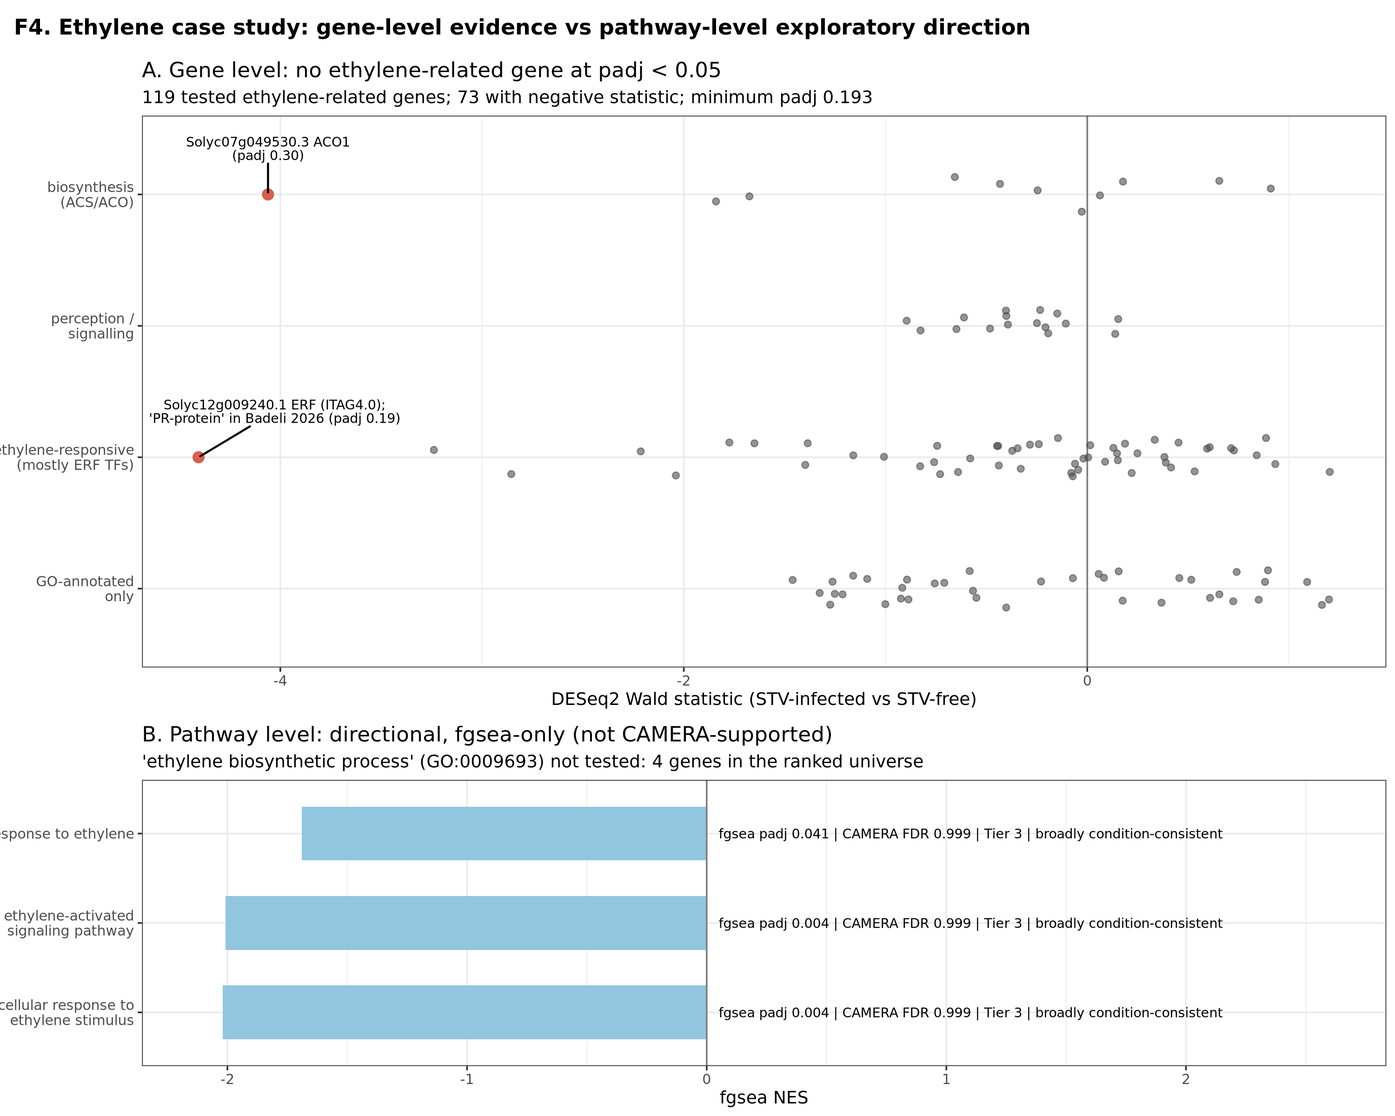
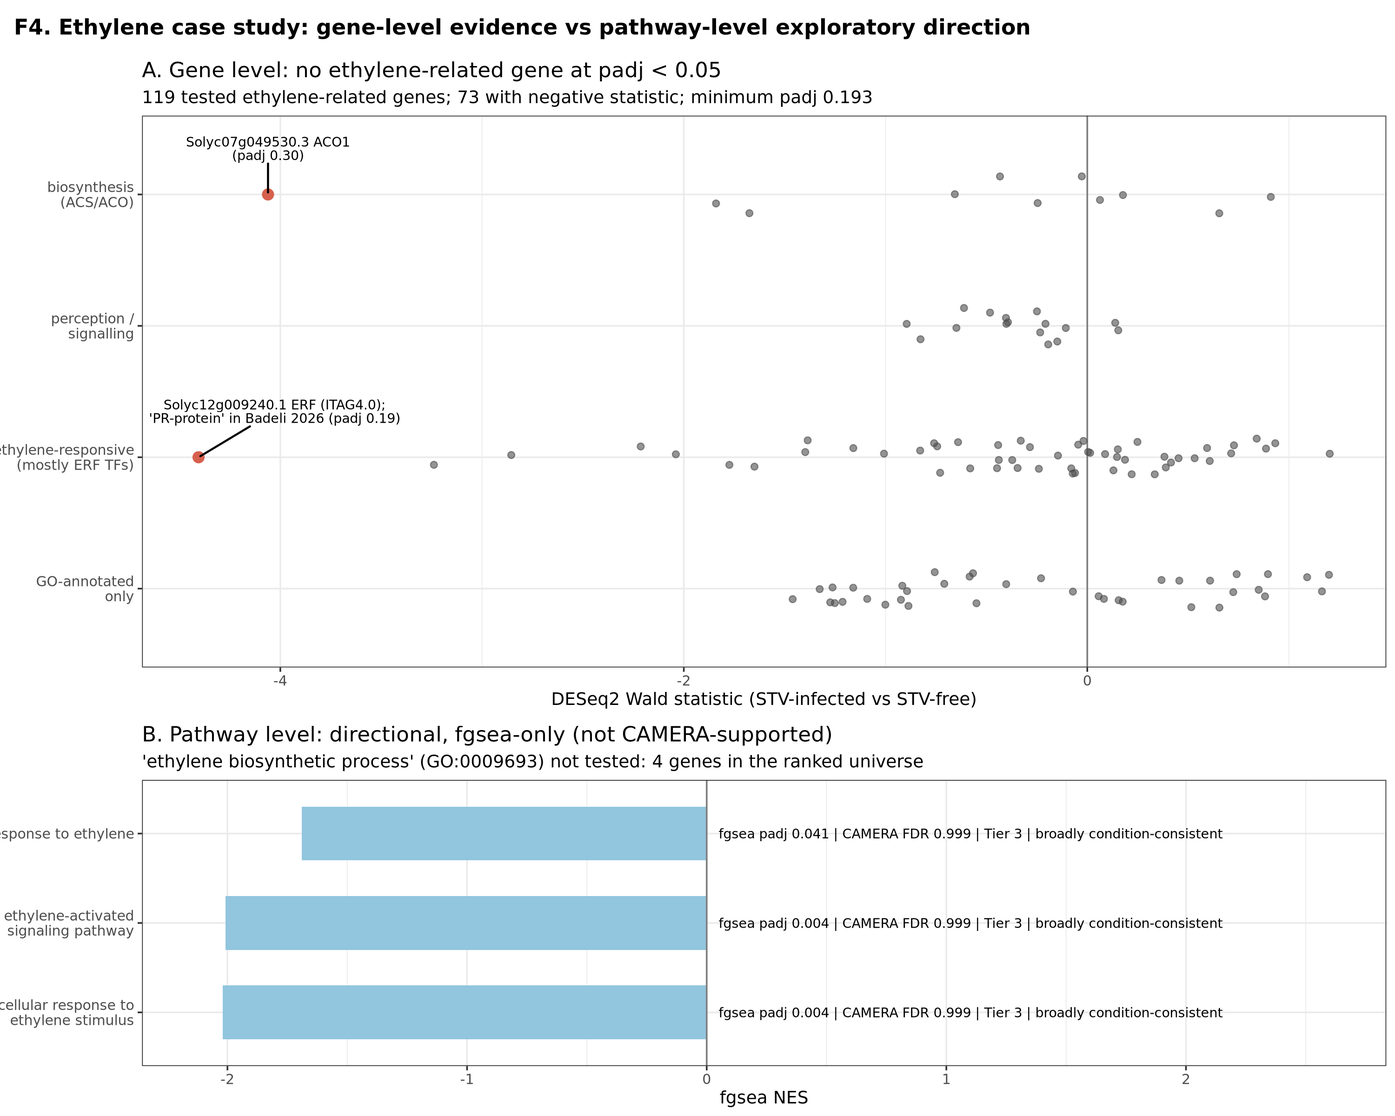
Finalize Phase 7 robustness decisions and F4 reproducibility
Owner approvals recorded as final: D-049 robustness descriptors and cut points (descriptive, post-hoc project conventions, not inferential); ATP synthase UNSUPPORTED - technically sensitive; ER EXPLORATORY - strongly sample-sensitive. F4 made deterministic with the project seed 20261025 (position_jitter and ggrepel; D-050); two regenerations from identical inputs gave the same SHA-256 (4a89c02baaa18707651e781555ae36b5fa73fb8644e9360092d1c66d00bb93f3). No data, statistics, labels, axes or dimensions changed; F1-F3 identical. No primary analysis re-run; Phase 6 outputs 76/76, quant.sf 6/6, protected RDS and voom unchanged. Phase 7 closed.

diff --git a/docs/decisions.md b/docs/decisions.md
@@ -48,11 +48,12 @@ Statuses: **Proposed** / **Approved** / **Rejected**. Only the researcher change
[1 lines of base64/hex data omitted]
 | D-043 | 2026-10-26 | **Post-hoc additions after the Phase 6B runs (labelled, no class changed):** (1) `scripts/R/17_prior_study_locus_lookup.R`, a descriptive lookup of the loci named by Fukuhara et al. 2020 / Badeli et al. 2026 in the primary results (locus-prefix match, no threshold); (2) `scripts/R/18_functional_ch00_posthoc_identity_diagnostic.R`, a broader ch00 exclusion (identity ≥ 98 %, coverage ≥ 50 %) motivated by the `-max_hsps 1` coverage limitation found in the BLAST output. Pre-specified rules and classes stay primary | **Implemented** | (1) Task 11 needs the prior studies' genes in our results without building a gene list. (2) It checks whether a known limitation of the pre-specified class could change the ch00 STOP assessment; it does not (maximum 15.8 % ch00-sensitive) | `docs/functional_robustness_plan.md` §11.3; `docs/ch00_functional_investigation.md` §4; `docs/biological_comparison_prior_studies.md` |
 | D-044 | 2026-10-26 | **Organelle-aware re-quantification: assessment only (Phase 6B closure).** Decision criteria A / B / C / STOP frozen before the assessment (`organelle_requantification_assessment.md` §1; snapshot + SHA-256 in `results/organelle_assessment/prespecification/`). Post-hoc, descriptive work: multi-HSP BLAST (`scripts/bash/organelle_multihsp_blast.sh`), scope diagnostic (`scripts/R/19_organelle_scope_diagnostic.R`), GenBank provenance (`scripts/bash/ch00_ncbi_provenance.sh`). Finding: SL4.0ch00, a Salmon decoy that also carries the ch00 transcripts, contains the **complete** plastome and mitogenome at ≥ 98 % identity. Under the corrected rule, 334 ch00 genes are near-identical to organelle sequence. Maximum ch00 dependence is 15.8 % of a collection. **Agent recommendation: Option A, no new quantification.** Phase 6B wording "no organelle genome in the index" corrected by notes (original text kept). No quantification, tximport, DESeq2, fgsea or CAMERA run | **Approved 2026-10-26 (owner): Option A, no new organelle-aware Salmon re-quantification.** Owner decisions on the follow-ups: (a) the descriptive label "organelle-identical feature class" may be used when technically appropriate, but it must not imply a proven biological or genomic origin (sequence identity ≠ genomic origin); (b) the gene-exclusion fgsea with the corrected class is **not** run: the existing sensitivity analyses suffice for the ATP-synthase caveat, and another post-hoc exclusion is not justified. (Original status: Proposed; owner decision pending.) | The frozen rule selects A because organelle sequence is already represented in the index. No official source requires separate organelle records | `docs/organelle_requantification_assessment.md`; `docs/phase6b_decision_audit.md`; Salmon docs; Srivastava et al. 2020; nf-core/rnaseq 3.27.0 usage |
-| D-045 | 2026-10-26 | **Phase 7 evidence integration and classification rules.** Integrate frozen L1 – L4 evidence per theme (ten Phase 6B themes; no new theme). Classes ROBUST / SUPPORTED WITH CAUTION / EXPLORATORY / UNSUPPORTED. Phase 7 can only keep or lower the Phase 6B class. UNSUPPORTED if U1 (≥ 50 % of sets ch00-sensitive in both exclusion runs), U2 (≥ 50 % of sets dependent on the same sample in LOO **and** < 50 % broadly replicate-consistent) or U3 (≥ 50 % Tier 4). U2 was first coded with LOO alone (kept as `rule_U2_v1_loo_only`) and revised before interpretation so that no single diagnostic is decisive. Result: UNSUPPORTED ribosome/translation, ER, ATP synthase; EXPLORATORY the other seven (defence and cell wall with a LOO boundary caveat; under the first U2 version they would be UNSUPPORTED) | **Implemented (v2; commit `d29a849`). REVISED by the owner, 2026-10-26.** Owner decision: neither U2 v1 nor U2 v2 is a formal inferential rule that turns a theme from EXPLORATORY into UNSUPPORTED; both stay in the project history (matrix flags and superseded classes). Revised framework: DESeq2 = primary gene-level inference; fgsea = exploratory functional discovery; CAMERA = correlation-aware functional inference; replicate consistency, LOO, Cook's and ch00 diagnostics = robustness characterization, reported as a separate descriptive descriptor (D-049), not as significance tests. UNSUPPORTED only by explicit review (pattern lacks support, is contradicted by stronger evidence, or arises primarily from a technical feature class). Result: 9 EXPLORATORY, 1 UNSUPPORTED (ATP synthase: carried primarily by the organelle-identical feature class); ribosome/translation and ER EXPLORATORY, strongly sample-sensitive | Original: no test or threshold for significance is changed; classes follow existing diagnostics; revision disclosed. Revision: no external basis for a 50 % LOO share as an inferential boundary (no pathway-level LOO method paper, Phase 6B); robustness diagnostics are not significance tests; CAMERA is the correlation-aware check (Wu & Smyth 2012; limma `?camera`; GSEA User Guide) | `docs/biological_integration.md` §2 (history §2.4, explicit reviews §2.3); `docs/methods_references.md` §47; `scripts/R/20_biological_integration.R` |
+| D-045 | 2026-10-26 | **Phase 7 evidence integration and classification rules.** Integrate frozen L1 – L4 evidence per theme (ten Phase 6B themes; no new theme). Classes ROBUST / SUPPORTED WITH CAUTION / EXPLORATORY / UNSUPPORTED. Phase 7 can only keep or lower the Phase 6B class. UNSUPPORTED if U1 (≥ 50 % of sets ch00-sensitive in both exclusion runs), U2 (≥ 50 % of sets dependent on the same sample in LOO **and** < 50 % broadly replicate-consistent) or U3 (≥ 50 % Tier 4). U2 was first coded with LOO alone (kept as `rule_U2_v1_loo_only`) and revised before interpretation so that no single diagnostic is decisive. Result: UNSUPPORTED ribosome/translation, ER, ATP synthase; EXPLORATORY the other seven (defence and cell wall with a LOO boundary caveat; under the first U2 version they would be UNSUPPORTED) | **Implemented (v2; commit `d29a849`). REVISED by the owner, 2026-10-26.** Owner decision: neither U2 v1 nor U2 v2 is a formal inferential rule that turns a theme from EXPLORATORY into UNSUPPORTED; both stay in the project history (matrix flags and superseded classes). Revised framework: DESeq2 = primary gene-level inference; fgsea = exploratory functional discovery; CAMERA = correlation-aware functional inference; replicate consistency, LOO, Cook's and ch00 diagnostics = robustness characterization, reported as a separate descriptive descriptor (D-049), not as significance tests. UNSUPPORTED only by explicit review (pattern lacks support, is contradicted by stronger evidence, or arises primarily from a technical feature class). Result: 9 EXPLORATORY, 1 UNSUPPORTED (ATP synthase: carried primarily by the organelle-identical feature class); ribosome/translation and ER EXPLORATORY, strongly sample-sensitive. **Final (owner approval, 2026-10-26):** ATP synthase UNSUPPORTED — technically sensitive; ER EXPLORATORY — strongly sample-sensitive | Original: no test or threshold for significance is changed; classes follow existing diagnostics; revision disclosed. Revision: no external basis for a 50 % LOO share as an inferential boundary (no pathway-level LOO method paper, Phase 6B); robustness diagnostics are not significance tests; CAMERA is the correlation-aware check (Wu & Smyth 2012; limma `?camera`; GSEA User Guide) | `docs/biological_integration.md` §2 (history §2.4, explicit reviews §2.3); `docs/methods_references.md` §47; `scripts/R/20_biological_integration.R` |
 | D-046 | 2026-10-26 | **Literature review scope (Phase 7).** Europe PMC searches Q1 – Q4 (scripted, metadata only) plus two targeted queries; manual selection by the project priority; abstracts or full texts read; preprints labelled; title-only records not used; literature used only after internal evidence and never to choose thresholds, sets, genes, samples or classes | **Implemented** | Keeps external evidence at L5 (plausibility only) | `docs/literature_biological_context.md`; `scripts/bash/literature_search_europepmc.sh` |
 | D-047 | 2026-10-26 | **GO redundancy summary (descriptive).** Jaccard of full membership and of leading edges; GO ancestor pairs; average-linkage modules on 1 − leading-edge Jaccard within direction, cut 0.7 fixed before inspecting modules (0.5 and 0.9 reported) | **Implemented** | Turns 215 overlapping sets into redundancy groups without a new test | `scripts/R/21_go_redundancy_modules.R`; `docs/biological_integration.md` §6 |
 | D-048 | 2026-10-26 | **Phase 7 figures:** F1 evidence overview, F2 fgsea vs CAMERA on identical axes, F3 theme summary, F4 ethylene case study, F5/F5b GO redundancy. CAMERA shown as not significant; fgsea significance never drawn as validated | **Implemented** | Figures answer integration questions without implying CAMERA support | `scripts/R/22_phase7_figures.R`; `figures/biological_integration/` |
-| D-049 | 2026-10-26 | **Two-dimensional theme classification (implements the revised D-045).** (1) Evidence status: ROBUST / SUPPORTED WITH CAUTION need Tier 1/2 (CAMERA) sets; EXPLORATORY for fgsea-only patterns; UNSUPPORTED only by explicit review. (2) Robustness descriptor, assigned in order: technically sensitive (≥ 50 % of sets ch00-sensitive in both runs); strongly sample-sensitive (> 50 % of sets depend on one sample in LOO and < 50 % broadly consistent); mixed robustness (50 – 75 % broadly consistent); moderately sample-sensitive (≥ 50 % on one sample, or > 50 % on any sample); relatively stable (otherwise). Cut points = F1 colour bands; labelling convention defined after the diagnostics were known. Scripts 20 and 22 re-run on unchanged inputs: only the matrix, F1 and F3 changed; F4 kept (unseeded jitter) | **Implemented** | Keeps inferential evidence and robustness description apart, as the owner requires; reproducible from frozen counts; the descriptor never changes the evidence status | `docs/biological_integration.md` §2.2, §2.5; `scripts/R/20_biological_integration.R`; `scripts/R/22_phase7_figures.R` |
+| D-049 | 2026-10-26 | **Two-dimensional theme classification (implements the revised D-045).** (1) Evidence status: ROBUST / SUPPORTED WITH CAUTION need Tier 1/2 (CAMERA) sets; EXPLORATORY for fgsea-only patterns; UNSUPPORTED only by explicit review. (2) Robustness descriptor, assigned in order: technically sensitive (≥ 50 % of sets ch00-sensitive in both runs); strongly sample-sensitive (> 50 % of sets depend on one sample in LOO and < 50 % broadly consistent); mixed robustness (50 – 75 % broadly consistent); moderately sample-sensitive (≥ 50 % on one sample, or > 50 % on any sample); relatively stable (otherwise). Cut points = F1 colour bands; labelling convention defined after the diagnostics were known. Scripts 20 and 22 re-run on unchanged inputs: only the matrix, F1 and F3 changed; F4 kept (unseeded jitter) | **Implemented; owner-approved as final (2026-10-26)**: descriptors and cut points kept unchanged. The labels are descriptive; the thresholds are project conventions defined post hoc; they are not inferential thresholds, do not determine statistical significance and do not override DESeq2 or CAMERA; borderline classifications (defence, cell wall) are accepted because the underlying diagnostics stay visible | Keeps inferential evidence and robustness description apart, as the owner requires; reproducible from frozen counts; the descriptor never changes the evidence status | `docs/biological_integration.md` §2.2, §2.5; `scripts/R/20_biological_integration.R`; `scripts/R/22_phase7_figures.R` |
+| D-050 | 2026-10-26 | **Deterministic F4.** F4 point jitter and `ggrepel` label placement use the project seed `20261025` (`fig_seed` in `22_phase7_figures.R`; same seed as scripts 02, 03 and 06). No change to data, statistics, labels, axes, plotted genes or dimensions | **Implemented** (owner request at Phase 7 closure). Two regenerations from identical inputs gave the same SHA-256 (`4a89c02b…`; `run_log.md` entry 139) | Identical figure generation from identical inputs | `scripts/R/22_phase7_figures.R`; `docs/biological_integration.md` §7 |
 
 **Phase 6B outcome (2026-10-26):** no STOP condition was triggered. CAMERA (`inter.gene.cor = NA`) found 0 significant sets in BP, MF and CC, so Tier 1 = Tier 2 = 0 and every theme is **EXPLORATORY** under D-039. Details: `docs/functional_robustness_plan.md` §11.
 
@@ -83,3 +84,13 @@ Statuses above are unchanged until the owner decides.
   ATP synthase technically sensitive; defence, heme, glutathione and cell wall moderately sample-sensitive; hormone/ethylene
   and water/abiotic stress relatively stable.
 - No primary analysis was re-run; the data and all quantitative results are unchanged.
+
+**Phase 7 closure (2026-10-26, owner):**
+- Final: D-049 descriptors and cut points; ATP synthase UNSUPPORTED — technically sensitive; ER EXPLORATORY — strongly
+  sample-sensitive.
+- F4 made deterministic with the project seed `20261025` (D-050).
+- **Phase 7 is closed.** Evidence classes, robustness descriptors, pathway interpretation, thresholds, sample handling and
+  biological hypotheses change only if the owner explicitly reopens Phase 7.
+- Next phase (not started): Mercator4 → MapMan with the prepared ITAG4.0 protein input
+  (`results/functional/mapman/MERCATOR4_SUBMISSION.md`). If Mercator4 is still under maintenance, stop; no legacy Mercator,
+  unofficial substitute, other annotation release or other ITAG version.

diff --git a/docs/biological_integration.md b/docs/biological_integration.md
@@ -1,6 +1,7 @@
 # Biological integration: evidence matrix by theme (Phase 7)
 
-Status: Phase 7, 2026-10-26; classification revised the same day under the owner's D-045 decision (§2). This phase
+Status: Phase 7, 2026-10-26; classification revised the same day under the owner's D-045 decision (§2) and approved as
+final by the owner; **Phase 7 is closed**. This phase
 integrates **frozen** results. It runs no new test of significance and no new DESeq2, fgsea or CAMERA run, and it does not
 change any threshold or sample. Machine-readable version:
 `results/biological_integration/theme_evidence_matrix.tsv`. Interpretation: [phase7_biological_interpretation.md](phase7_biological_interpretation.md).
@@ -70,9 +71,15 @@ Disclosure and limits:
   same-condition sample keeps it supported.
 - The counts behind every label are in the matrix (`robustness_basis`).
 
+**Owner approval (final, 2026-10-26; D-049).** The descriptors and their cut points are approved as implemented and are not
+to be tuned further. The labels are descriptive. The thresholds are project conventions defined post hoc. They are not
+inferential thresholds, they do not determine statistical significance, and they do not override DESeq2 or CAMERA.
+Borderline classifications such as defence and cell wall are accepted because the underlying quantitative diagnostics stay
+visible in the matrix.
+
 ### 2.3 Explicit reviews: ATP synthase and endoplasmic reticulum
 
-**ATP synthase / proton transport: UNSUPPORTED (retained), technically sensitive.**
+**ATP synthase / proton transport: UNSUPPORTED — technically sensitive (final, owner-approved 2026-10-26).**
 - *Question.* Does the existing evidence show only technical sensitivity, or that the apparent pattern is primarily
   explained by organelle-identical / ch00 features?
 - *Evidence (frozen D-038 / D-043 tables).*
@@ -86,10 +93,10 @@ Disclosure and limits:
 - *Decision.* Removing about five features from sets of 22 – 59 genes removes the fgsea signal of every
   ATP-synthase-specific set under both rules. This is more than sensitivity: the apparent pattern is carried primarily by
   the organelle-identical feature class. UNSUPPORTED is kept, now by explicit review rather than by the superseded rule U1.
-- *Scope.* This does not show that organellar ATP-synthase transcripts are unchanged. Sequence identity is not genomic
-  origin, the library is poly(A)-selected, and no organelle-aware re-quantification was run (D-044, owner decision).
+- *Scope.* This does not show that organellar ATP-synthase transcripts are unchanged. Sequence identity does not establish
+  genomic origin, the library is poly(A)-selected, and no organelle-aware re-quantification was run (D-044, owner decision).
 
-**Endoplasmic reticulum: EXPLORATORY, strongly sample-sensitive.**
+**Endoplasmic reticulum: EXPLORATORY — strongly sample-sensitive (final, owner-approved 2026-10-26).**
 - *Question.* Is the pattern merely strongly sample-sensitive, or do the replicate diagnostics leave insufficient evidence
   for a meaningful group-level pattern?
 - *Evidence for a group-level pattern.*
@@ -416,7 +423,7 @@ effect. No module is significant under CAMERA.
 | F1 `F1_integrated_evidence_overview.png` | Ten themes × evidence layers (fgsea, CAMERA, replicate, LOO, Cook's, ch00, literature), then evidence status and robustness descriptor in separate columns | CAMERA cells are grey ("not significant"); fgsea cells use a neutral colour; the robustness palette is separate from the status palette. Regenerated for the D-045 revision |
 | F2 `F2_fgsea_vs_camera.png` | −log10 fgsea padj vs −log10 CAMERA FDR on identical axes | All points lie on the floor (CAMERA FDR ≥ 0.997); direction agreement 215/215 |
 | F3 `F3_theme_summary.png` | Direction, evidence status, robustness descriptor and main caveat (`primary_caveat`) per theme | Directions are rank-level shifts. Regenerated for the D-045 revision |
-| F4 `F4_ethylene_case_study.png` | Gene-level Wald statistics vs pathway-level NES | Shows the gene-level null beside the pathway tendency. Point jitter and label placement are unseeded, so a re-run changes the PNG bytes but not the content; the committed file was kept |
+| F4 `F4_ethylene_case_study.png` | Gene-level Wald statistics vs pathway-level NES | Shows the gene-level null beside the pathway tendency. Point jitter and `ggrepel` label placement use the project seed `20261025` (D-050); two regenerations from identical inputs gave the same SHA-256 (`run_log.md` entry 139) |
 | F5 `F5_go_redundancy_heatmap.png`, F5b `F5b_go_modules_overview.png` | Leading-edge Jaccard heatmap; module composition | Descriptive only |
 
 ## 8. Outputs and reproducibility

diff --git a/README.md b/README.md
@@ -193,4 +193,4 @@ Provenance:
 | Functional robustness validation (Phase 6B) | Done; no STOP condition. CAMERA (estimated correlation) 0 significant sets → Tier 1 = Tier 2 = 0, Tier 3 = 210, Tier 4 = 5. Cook's-stable 210/215. Replicate classes: 144 broadly / 69 partially / 2 ambiguous; 0 driven by STV_free_rep1. Leave-one-out maximum sample dependence 47.7 %. ch00-sensitive ≤ 12.5 %. **All themes EXPLORATORY**. Phase 6 outputs byte-identical — [docs/functional_robustness_plan.md](docs/functional_robustness_plan.md) §11, [docs/ch00_functional_investigation.md](docs/ch00_functional_investigation.md), [docs/biological_comparison_prior_studies.md](docs/biological_comparison_prior_studies.md) |
 | Phase 6B closure (decision audit, organelle assessment) | Done; **no result changed**, nothing re-quantified. Decision audit D-033 – D-044: 3 APPROVE, 7 APPROVE WITH CAVEAT; D-042 resolved by the owner as REGENERATE ON DEMAND. SL4.0ch00 (a Salmon decoy) already contains the complete plastome and mitogenome; **Option A approved (D-044): no organelle-aware re-quantification**; no gene-exclusion fgsea. Mercator4 still under maintenance. Committed `13e87be` — [docs/phase6b_decision_audit.md](docs/phase6b_decision_audit.md), [docs/organelle_requantification_assessment.md](docs/organelle_requantification_assessment.md), [docs/reproducibility_audit.md](docs/reproducibility_audit.md), [docs/pipeline_execution_map.md](docs/pipeline_execution_map.md) |
 | Biological integration (Phase 7) | Done; frozen results only, no new test. Gene level unchanged (**0 genes padj < 0.05**); no theme received CAMERA support. Ethylene: lower-rank directional tendency (same direction as Fukuhara et al. and Badeli et al.), not significant at gene level (ACO1 padj 0.297) and not CAMERA-supported. The 215 GO sets form about 73 redundancy modules. Committed `d29a849` (classes then: 7 EXPLORATORY, 3 UNSUPPORTED). Mercator4 still under maintenance — [docs/phase7_biological_interpretation.md](docs/phase7_biological_interpretation.md), [docs/biological_integration.md](docs/biological_integration.md), [docs/literature_biological_context.md](docs/literature_biological_context.md) |
-| D-045 revision (owner decision) | Done; no analysis re-run, no quantitative result changed. LOO and the other robustness diagnostics no longer reject themes; each theme has an evidence status and a separate descriptive robustness descriptor. **9 EXPLORATORY** and **1 UNSUPPORTED** (ATP synthase: carried primarily by organelle-identical features). Robustness: ribosome/translation and ER strongly sample-sensitive; photosynthesis/plastid mixed; defence, heme, glutathione, cell wall moderately sample-sensitive; hormone/ethylene and water/abiotic stress relatively stable. F1 and F3 regenerated — [docs/biological_integration.md](docs/biological_integration.md) §2, [docs/decisions.md](docs/decisions.md) (D-045, D-049) |
+| D-045 revision (owner decision) | Done; no analysis re-run, no quantitative result changed. LOO and the other robustness diagnostics no longer reject themes; each theme has an evidence status and a separate descriptive robustness descriptor. **9 EXPLORATORY** and **1 UNSUPPORTED** (ATP synthase: carried primarily by organelle-identical features). Robustness: ribosome/translation and ER strongly sample-sensitive; photosynthesis/plastid mixed; defence, heme, glutathione, cell wall moderately sample-sensitive; hormone/ethylene and water/abiotic stress relatively stable. F1 and F3 regenerated. Owner approved D-049, ATP synthase and ER as final; F4 made deterministic (seed `20261025`, D-050). **Phase 7 closed** — [docs/biological_integration.md](docs/biological_integration.md) §2, [docs/decisions.md](docs/decisions.md) (D-045, D-049, D-050) |

diff --git a/docs/run_log.md b/docs/run_log.md
@@ -599,3 +599,18 @@ live outside the repository and are not committed. Every reported number comes f
      current-release `camera` help could not be retrieved (code.bioconductor.org TLS certificate expired; not bypassed).
 138. **Not executed:** Salmon, tximport, DESeq2, apeglm, fgsea, CAMERA, LOO, Cook's analysis, ch00 exclusion, any
      enrichment, Mercator4, MapMan.
+
+## Phase 7 closure (2026-10-26; owner approvals; F4 reproducibility)
+
+139. **Owner approvals and F4 fix.**
+    - Owner approved as final: D-049 descriptors and cut points; ATP synthase UNSUPPORTED — technically sensitive; ER
+      EXPLORATORY — strongly sample-sensitive. Recorded in `decisions.md` and `biological_integration.md` §2.2 – §2.3.
+    - `scripts/R/22_phase7_figures.R`: `fig_seed <- 20261025L` (project seed, as in scripts 02, 03 and 06). F4 now uses
+      `position_jitter(width = 0, height = 0.15, seed = fig_seed)` (replacing the unseeded `geom_jitter`) and
+      `geom_text_repel(..., seed = fig_seed)`. Data, labels, axes and dimensions unchanged.
+    - Hash test: script 22 run twice on identical inputs (input SHA-256 identical before and after; logs
+      `logs/phase7_22_phase7_figures_f4test_run1.log` / `_run2.log`, exit 0). F4 SHA-256 run 1 =
[1 lines of base64/hex data omitted]
+      identical to the committed files. Only the jitter positions of F4 differ from the earlier, unseeded version.
+140. **Phase 7 closed** (owner). **Not executed:** FastQC, MultiQC, Salmon, tximport, DESeq2, apeglm, fgsea, CAMERA, LOO,
+     Cook's diagnostics, ch00 / organelle sensitivity, GO redundancy, any enrichment, Mercator4, MapMan.
